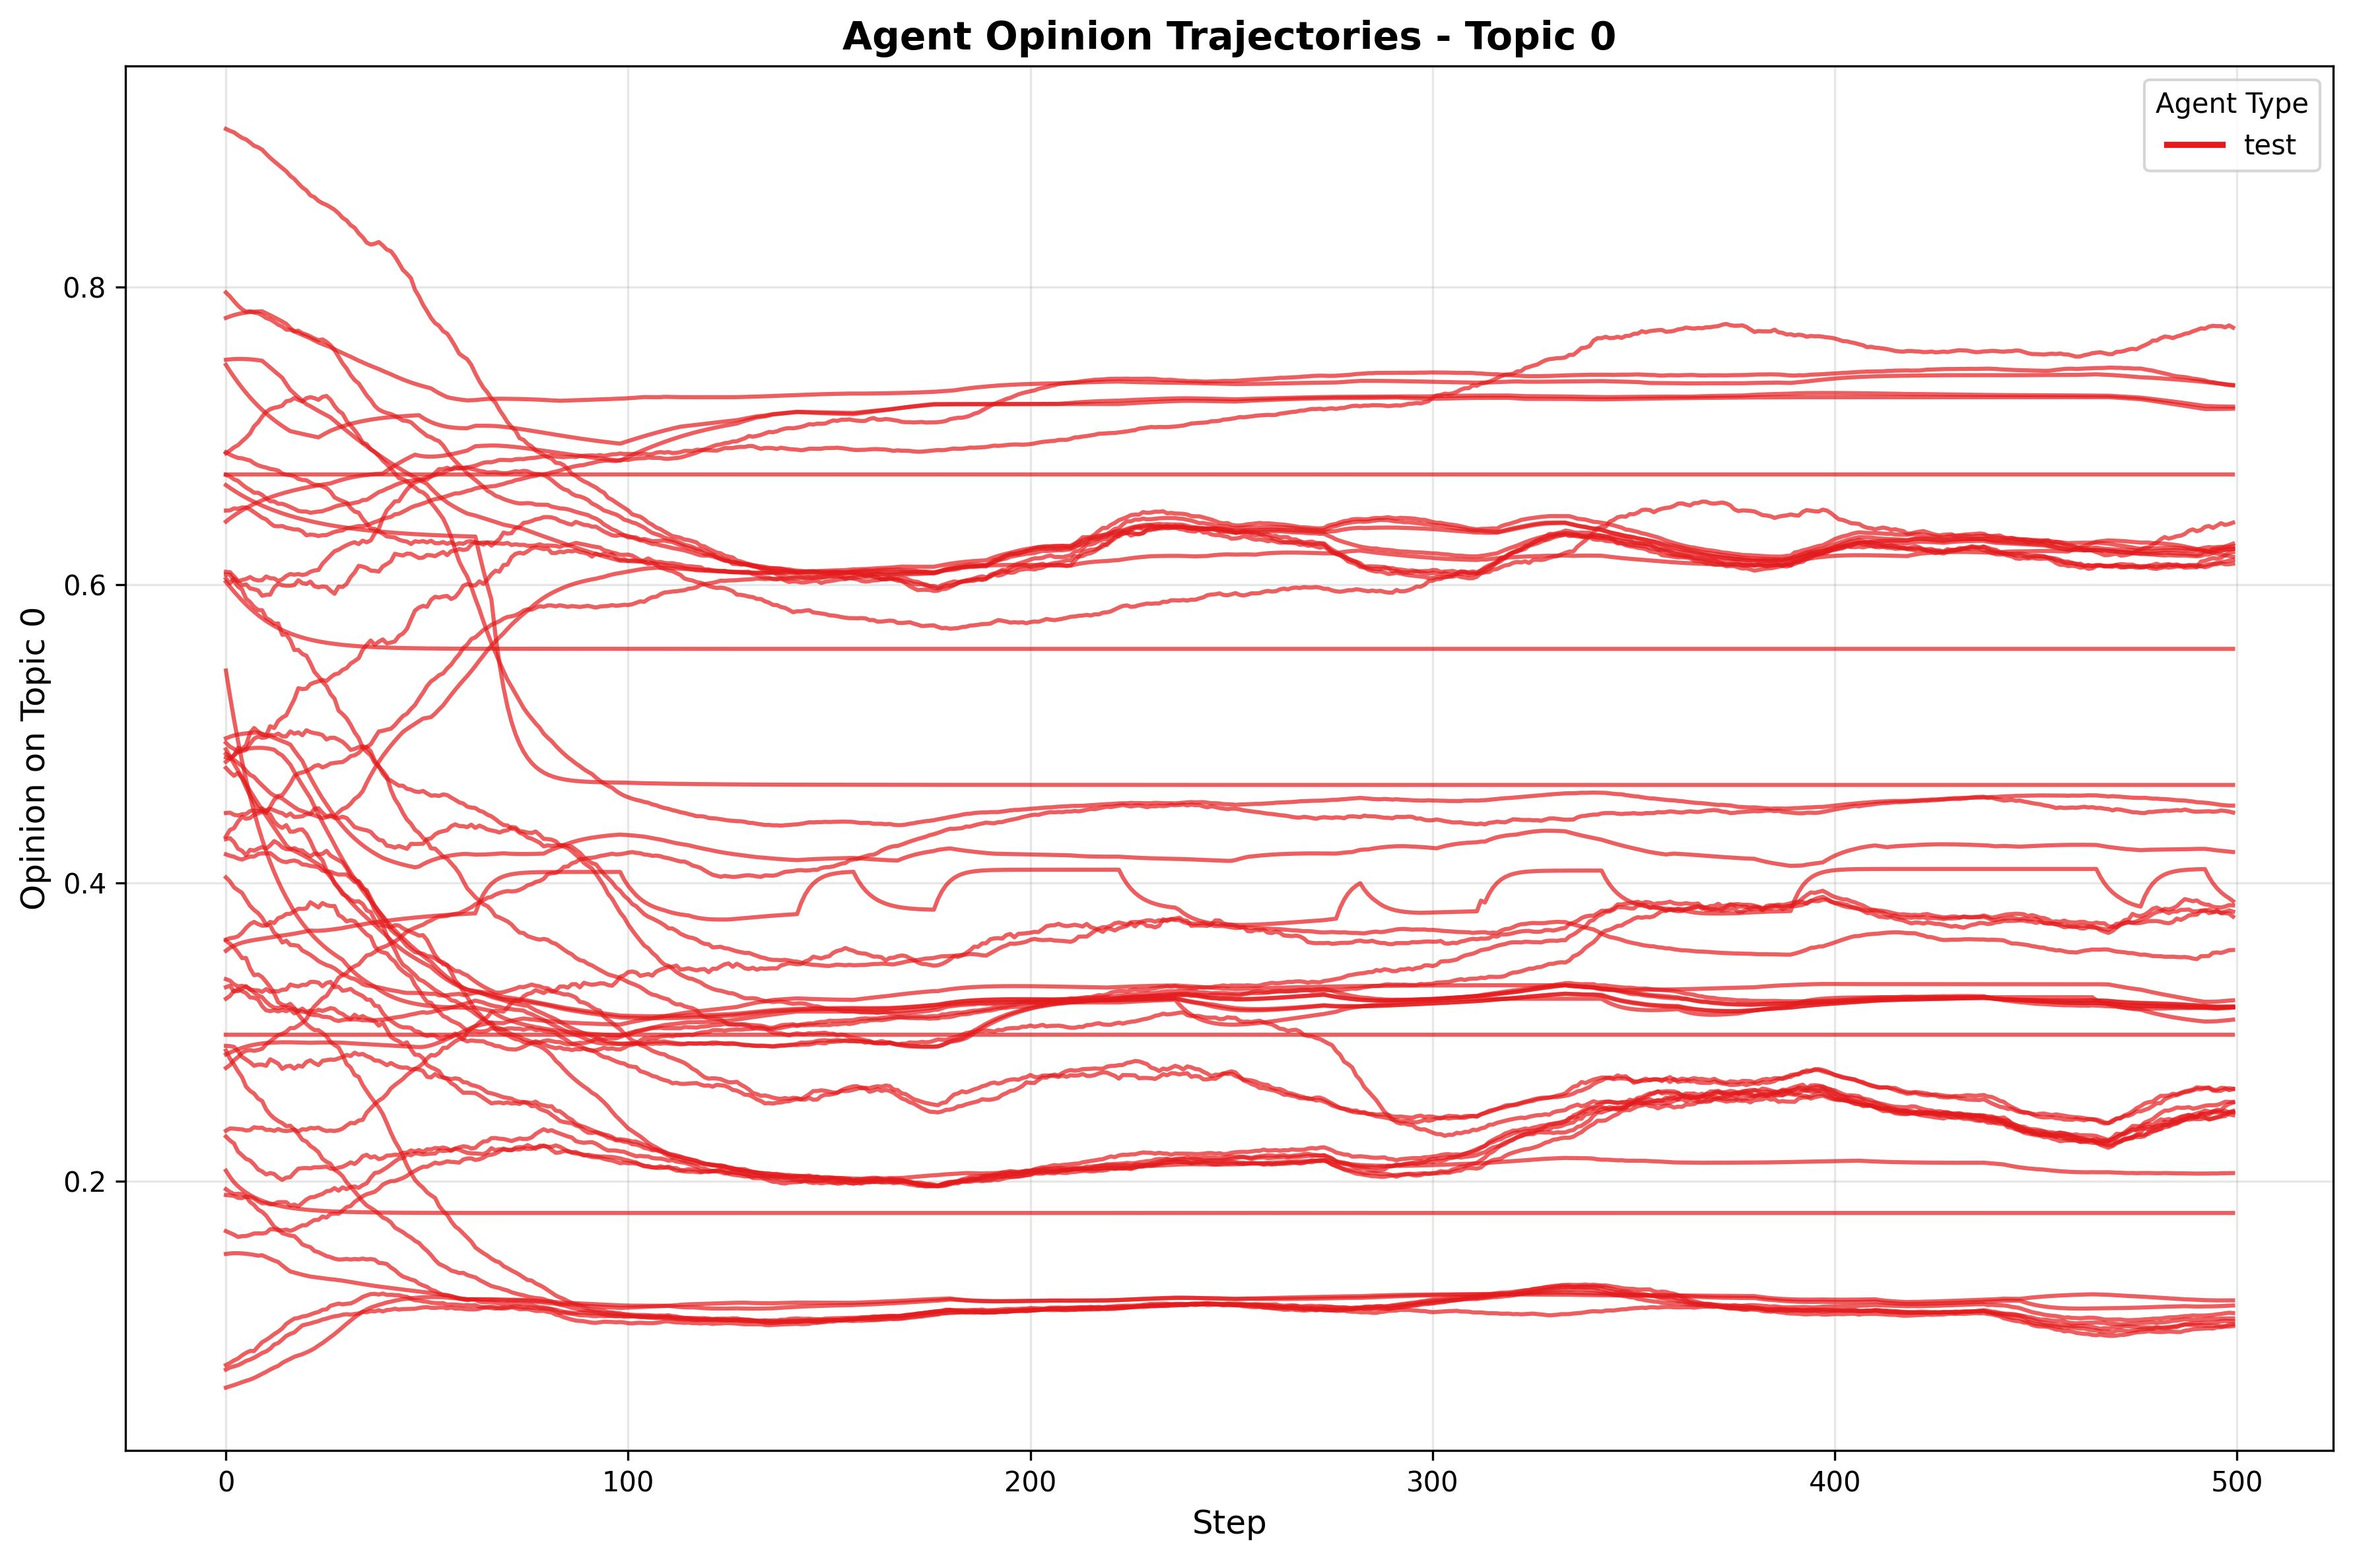
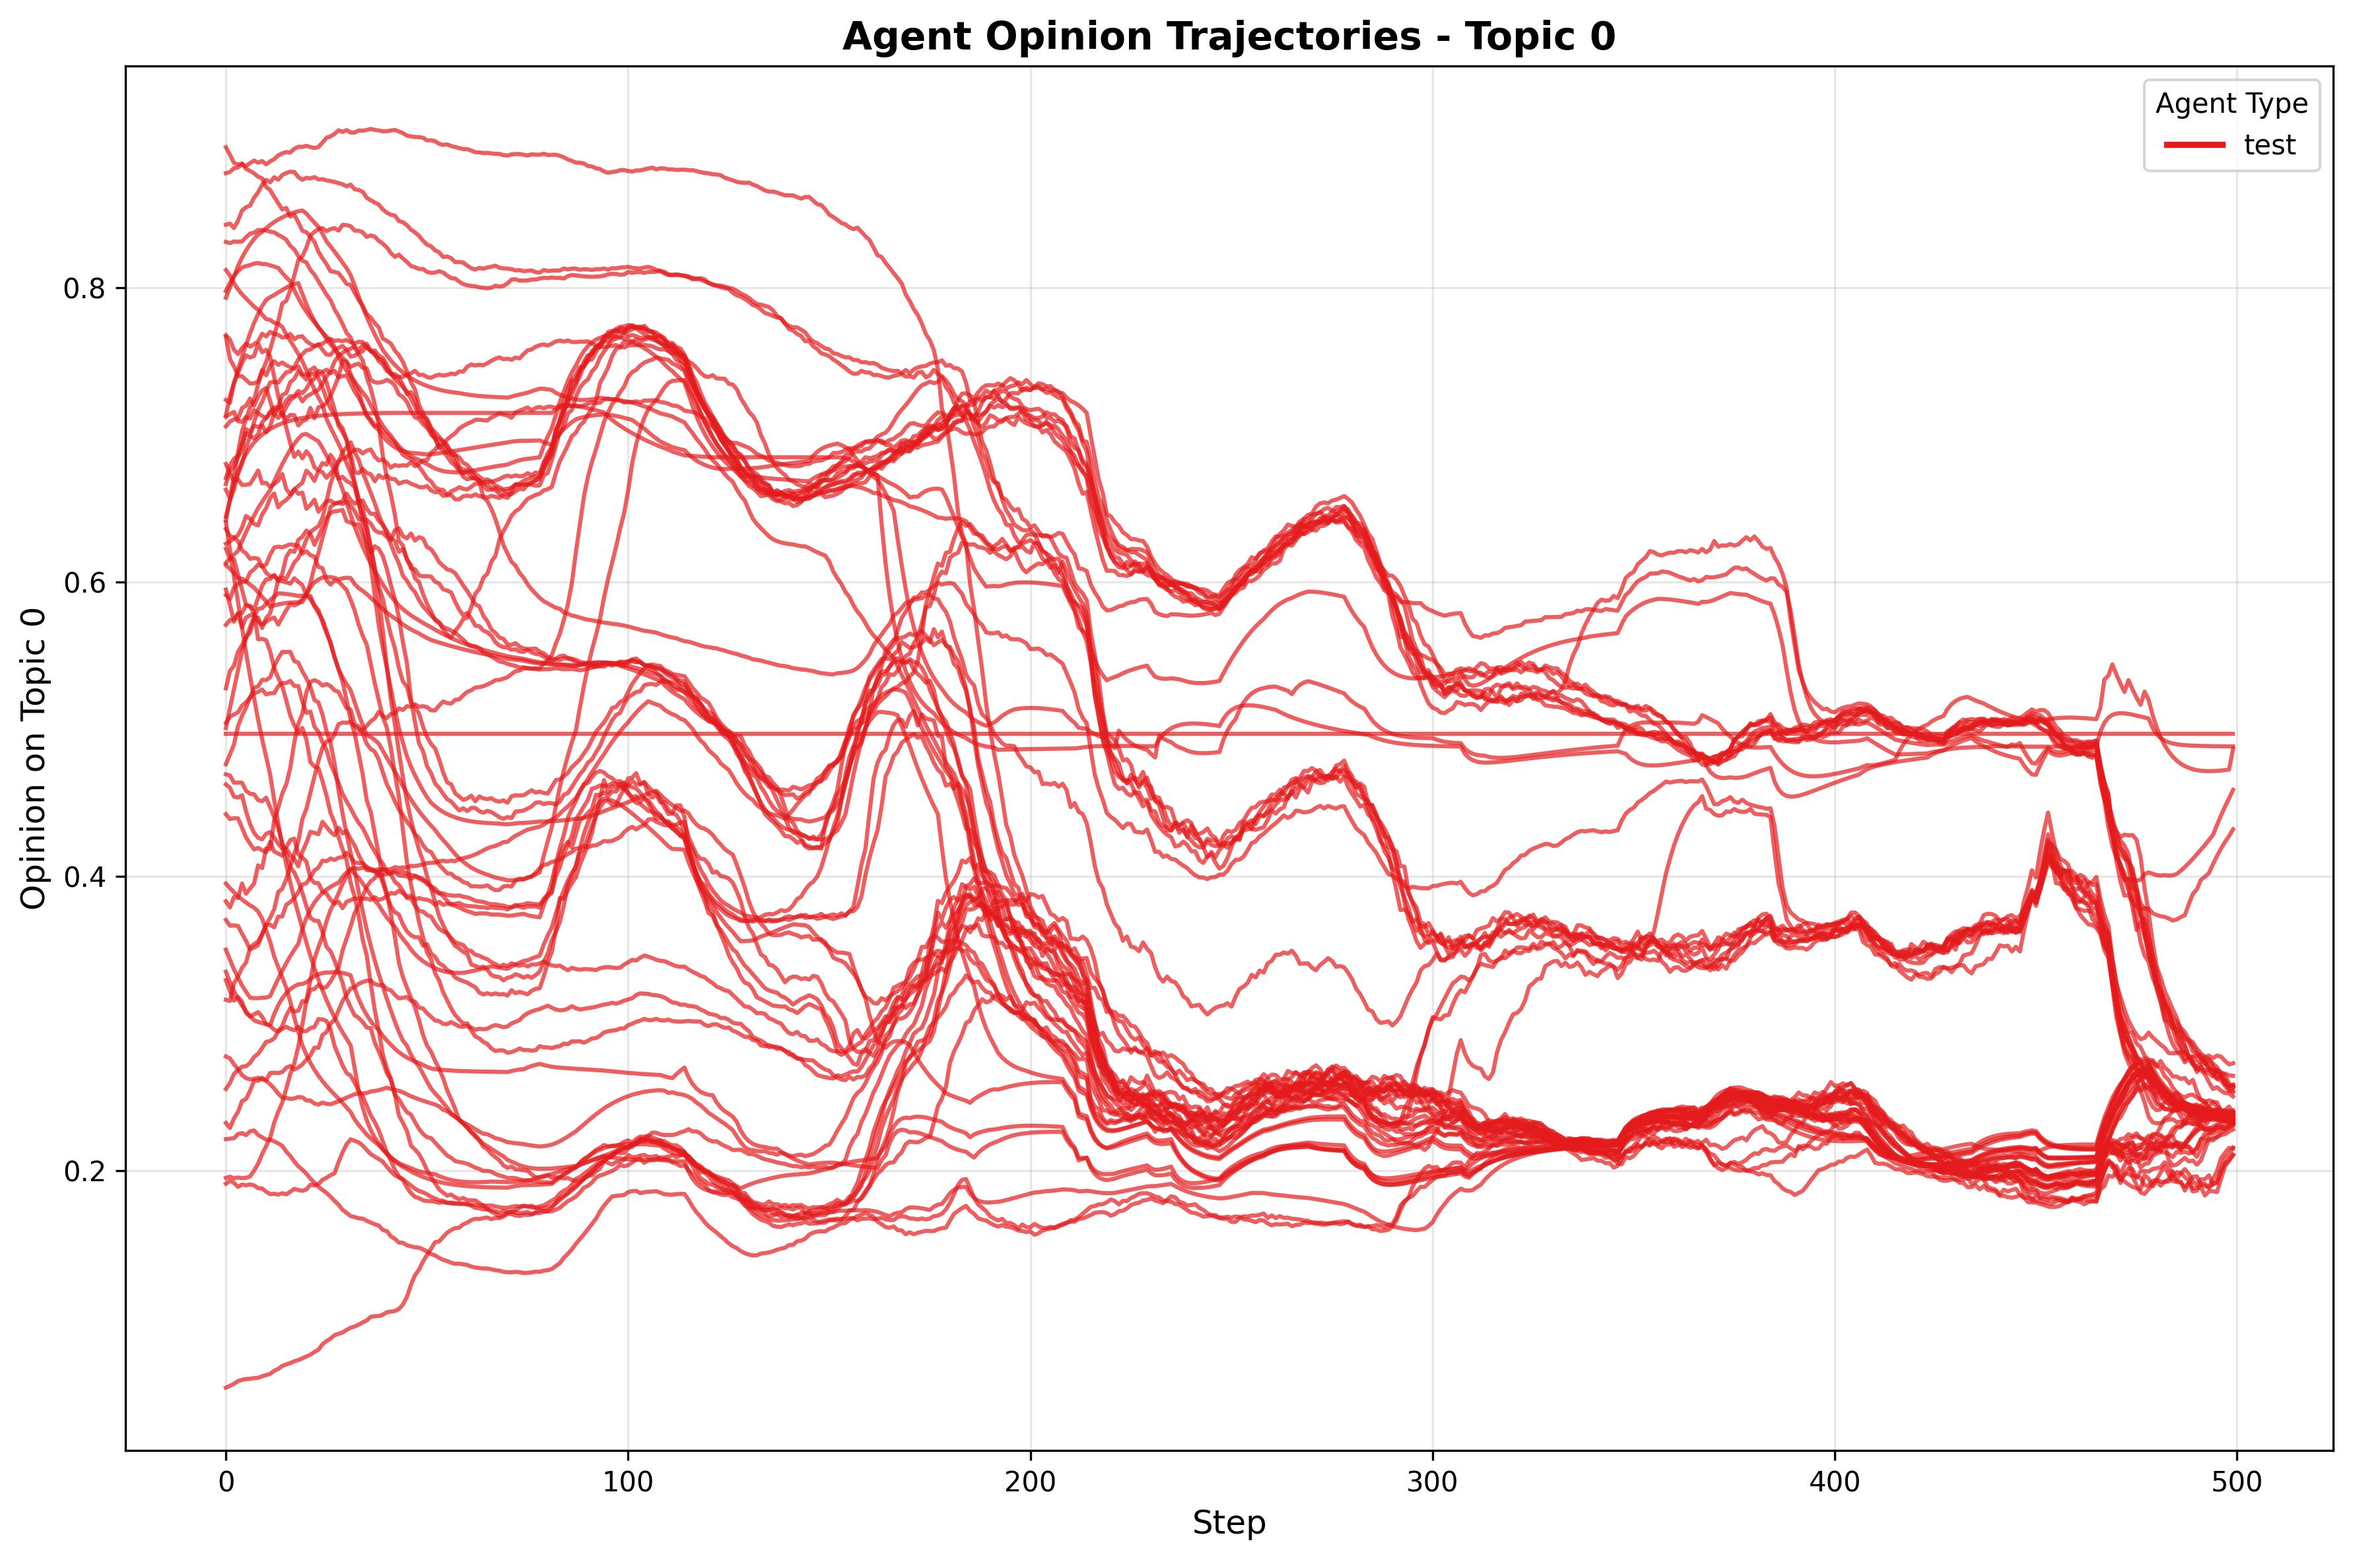
adding more examples

diff --git a/examples/cascades/001.py b/examples/cascades/001.py
@@ -5,37 +5,30 @@ sys.path.append(os.path.dirname(os.path.dirname(os.path.dirname(__file__))))
 from pathlib import Path
 
 import numpy as np
-from vector_model import *
+from  vector_model import *
 from analysis import *
 
-AGENT_TYPE = 'test'
+N_DIMS = 3         
+N_DYN_VECS = 3         
+N_PERS_VECS = 0
 
-N_DIMS = 3            
-N_DYN_VECS = 3          
-N_PERS_VECS = 3          
-
-N_STATIC_TOPICS = 1
+N_STATIC_TOPICS = 3
 N_DYNAMIC_TOPICS = 10
 TOPIC_DECAY_RATE = 0.95 
 TOPIC_REPLACE_THRESHOLD = 0.1  
 
 N_AGENTS = 50
 
-OPINION_ASSIMILATIVE_METHOD = 'closest',
-VECTOR_ASSIMILATIVE_METHOD = 'closest',
-OPINION_REPULSIVE_METHOD = 'furthest',
-VECTOR_REPULSTIVE_METHOD = 'furthest',
+EPSILON_T_OP = 0.2
+EPSILON_R_OP = 0.8
+EPSILON_T_VEC = 0.2
+EPSILON_R_VEC = 0.8
+LAMBDA_PARAM = 0.15
 
-EPSILON_T_OP = 0.1
-EPSILON_R_OP = 0.2
-EPSILON_T_VEC = 0.1
-EPSILON_R_VEC = 0.2
-LAMBDA_PARAM = 0.1
-
-MESSAGE_RATE = 1.5  
+MESSAGE_RATE = 1.0
 MAX_TARGETS = 4          
 
-N_STEPS = 500
+N_STEPS = 250
 SIMILARITY_METHOD: SIMILARITY_METHODS = 'tanh'
 
 SELECTOR_METHODS = ['select_randomly']
@@ -43,14 +36,11 @@ MAX_MESSAGES_SELECTED = 10
 OPINION_SIMILARITY_THRESHOLD = 0.4
 VECTOR_SIMILARITY_THRESHOLD = 0.4
 
-N_MAX_MESSAGES = 4
 PRODUCER_METHODS: List[MessageProducer.PRODUCER_METHODS] = ['opinionated']
 
 DEBUG_LEVEL: DEBUG_LEVELS = 'summary'
 
-SEED = 1
-
-DATA_COLLECTOR = DataCollector('detailed', n_agents_to_track=1, n_messages_to_show=3)
+SEED = 4
 
 rng = np.random.default_rng(SEED)
 
@@ -66,10 +56,10 @@ topic_space = TopicSpace(
 opinion_updater = OpinionUpdater(
     n_dims=N_DIMS,
     n_vecs=N_DYN_VECS,
-    opinion_assimilative_method=OPINION_ASSIMILATIVE_METHOD,
-    vector_assimilative_method=VECTOR_ASSIMILATIVE_METHOD,
-    opinion_repulsive_method=OPINION_REPULSIVE_METHOD,
-    vector_repulsive_method=VECTOR_REPULSTIVE_METHOD,
+    opinion_assimilative_method='closest',
+    vector_assimilative_method='closest',
+    opinion_repulsive_method='furthest',
+    vector_repulsive_method='furthest',
     similarity_method=SIMILARITY_METHOD,
     epsilon_T_op=EPSILON_T_OP,
     epsilon_R_op=EPSILON_R_OP,
@@ -86,7 +76,7 @@ model = VectorModel(
     n_dyn_vecs=N_DYN_VECS,
     n_pers_vecs=N_PERS_VECS,
     similarity_method=SIMILARITY_METHOD,
-    data_collector=DATA_COLLECTOR,
+    data_collector=DataCollector('detailed', n_agents_to_track=1, n_messages_to_show=3),
 )
 
 for i in range(N_AGENTS):
@@ -104,7 +94,7 @@ for i in range(N_AGENTS):
         similarity_method=SIMILARITY_METHOD,
         message_rate=MESSAGE_RATE,
         max_targets=MAX_TARGETS,
-        n_max_messages=N_MAX_MESSAGES,
+        n_max_messages=1,
         rng=rng,
         include_opinions=True,
         include_dyn_vecs=True,
@@ -119,8 +109,9 @@ for i in range(N_AGENTS):
         message_selector=message_selector,
         message_producer=message_producer,
         similarity_method=SIMILARITY_METHOD,
-        agent_type=AGENT_TYPE,
+        agent_type='test',
         rng=rng
+        #rng=np.random.default_rng(seed=rng.integers(0, 1000, 1))
     )
     model.agents.add(agent)
 
@@ -136,11 +127,31 @@ print(f"  Steps: {N_STEPS}")
 print(f"  Debug level: {DEBUG_LEVEL}")
 print(f"  Seed: {SEED}")
 
+# Run the model
 model.run(N_STEPS)
 
 print("\n" + "="*80)
 print("SIMULATION COMPLETE")
 print("="*80)
+
+
+
+if DEBUG_LEVEL != 'none':
+    print(f"\nCollected debug data for {len(model.data_collector.step_data)} steps")
+    
+    agent_num = 2
+    agent_opinions = []
+    for step_data in model.data_collector.step_data:
+        for agent_data in step_data:    
+            if agent_data.agent_id == agent_num:
+                agent_opinions.append(agent_data.opinions_after)
+                break
+    
+    if agent_opinions:
+        print(f"\nAgent {agent_num} opinion trajectory on topic 0:")
+        for step, opinions in enumerate(agent_opinions):
+            if opinions:
+                print(f"  Step {step}: {opinions[0][1]:+.4f}")
                 
 bipolarization = calculate_bipolarization(model, 0)
 print(f'FINAL BIPOLALIZATION: {bipolarization}')
@@ -157,7 +168,8 @@ plot_opinion_trajectories(
     save_path=output_path,
 )
 
-plot_all_topics(model.data_collector,
-                N_STATIC_TOPICS)
-
+plot_all_topics(
+    model.data_collector,
+    n_topics = N_STATIC_TOPICS
+   )
 # %%

diff --git a/test.py b/test.py
@@ -11,9 +11,9 @@ from agent_profiles import *
 
 AGENT_TYPE = 'test'
 
-N_DIMS = 4            
-N_DYN_VECS = 4         
-N_PERS_VECS = 4     
+N_DIMS = 10           
+N_DYN_VECS = 10       
+N_PERS_VECS = 2    
 
 N_STATIC_TOPICS = 1 
 N_DYNAMIC_TOPICS = 10
@@ -27,16 +27,16 @@ VECTOR_ASSIMILATIVE_METHOD = 'closest',
 OPINION_REPULSIVE_METHOD = 'matched',
 VECTOR_REPULSTIVE_METHOD = 'matched',
 
-EPSILON_T_OP = 0.4
-EPSILON_R_OP = 0.9
-EPSILON_T_VEC = 0.4
-EPSILON_R_VEC = 0.9
+EPSILON_T_OP = 0.2
+EPSILON_R_OP = 0.7
+EPSILON_T_VEC = 0.2
+EPSILON_R_VEC = 0.7
 LAMBDA_PARAM = 0.1
 
 MESSAGE_RATE = 1.0
 MAX_TARGETS = 4          
 
-N_STEPS = 250
+N_STEPS = 500
 SIMILARITY_METHOD: SIMILARITY_METHODS = 'tanh'
 
 MAX_MESSAGES_SELECTED = 20
@@ -88,7 +88,7 @@ model = VectorModel(
     data_collector=DATA_COLLECTOR,
 )
 
-N_STRATEGIC_AGENTS = 5
+N_STRATEGIC_AGENTS = 10
 for _ in range(N_STRATEGIC_AGENTS):
     strategic_agent = create_strategic_agent(model,
                   N_DIMS,
@@ -106,8 +106,10 @@ for _ in range(N_STRATEGIC_AGENTS):
                   )
     model.agents.add(strategic_agent)
 
-N_LURKERS = 40
-for _ in range(N_LURKERS):
+N_LURKERS = 80
+lurkers_count = 0
+while lurkers_count < N_LURKERS:
+#for _ in range(N_LURKERS):
     lurker = create_lurker(model,
                   N_DIMS,
                   N_DYN_VECS,
@@ -121,9 +123,16 @@ for _ in range(N_LURKERS):
                   N_MAX_MESSAGES,
                   rng
                   )
-    model.agents.add(lurker)
     
-N_COMMENTERS = 5
+    opinion = lurker.calculate_opinion(model.topic_space.get_topic(0))
+    
+    if opinion < 0.4 or opinion > 0.6:
+        model.deregister_agent(lurker)
+    else:
+        model.agents.add(lurker)
+        lurkers_count += 1
+    
+N_COMMENTERS = 10
 for _ in range(N_COMMENTERS):
     commenter = create_commenter(model,
                   N_DIMS,

diff --git a/examples/fragmentation/001.py b/examples/fragmentation/001.py
@@ -8,24 +8,24 @@ import numpy as np
 from  vector_model import *
 from analysis import *
 
-N_DIMS = 2             
-N_DYN_VECS = 3          
-N_PERS_VECS = 0          
+N_DIMS = 3         
+N_DYN_VECS = 3         
+N_PERS_VECS = 0
 
-N_STATIC_TOPICS = 1 
+N_STATIC_TOPICS = 3
 N_DYNAMIC_TOPICS = 10
 TOPIC_DECAY_RATE = 0.95 
 TOPIC_REPLACE_THRESHOLD = 0.1  
 
 N_AGENTS = 50
 
-EPSILON_T_OP = 0.1
-EPSILON_R_OP = 0.9
+EPSILON_T_OP = 0.15
+EPSILON_R_OP = 0.85
 EPSILON_T_VEC = 0.1
 EPSILON_R_VEC = 0.9
-LAMBDA_PARAM = 0.1
+LAMBDA_PARAM = 0.15
 
-MESSAGE_RATE = 1.5  
+MESSAGE_RATE = 1.0
 MAX_TARGETS = 4          
 
 N_STEPS = 500
@@ -40,7 +40,7 @@ PRODUCER_METHODS: List[MessageProducer.PRODUCER_METHODS] = ['opinionated']
 
 DEBUG_LEVEL: DEBUG_LEVELS = 'summary'
 
-SEED = 1
+SEED = 3
 
 rng = np.random.default_rng(SEED)
 
@@ -168,8 +168,8 @@ plot_opinion_trajectories(
     save_path=output_path,
 )
 
-#plot_all_topics(
-#    model.data_collector,
-#    n_topics=N_STATIC_TOPICS + N_DYNAMIC_TOPICS
-#    )
+plot_all_topics(
+    model.data_collector,
+    n_topics = N_STATIC_TOPICS
+   )
 # %%

diff --git a/grid.py b/grid.py
@@ -2,7 +2,7 @@ import sys
 import os
 sys.path.append(os.path.dirname(os.path.dirname(os.path.dirname(__file__))))
 
-from concurrent.futures import ThreadPoolExecutor, as_completed
+from concurrent.futures import ProcessPoolExecutor, as_completed
 from itertools import product
 from pathlib import Path
 import numpy as np
@@ -123,7 +123,7 @@ def main():
     
     results = []
     
-    with ThreadPoolExecutor(max_workers=12) as executor:
+    with ProcessPoolExecutor(max_workers=12) as executor:
         future_to_params = {executor.submit(run_model, params): params for params in param_grid}
         
         for i, future in enumerate(as_completed(future_to_params), 1):
